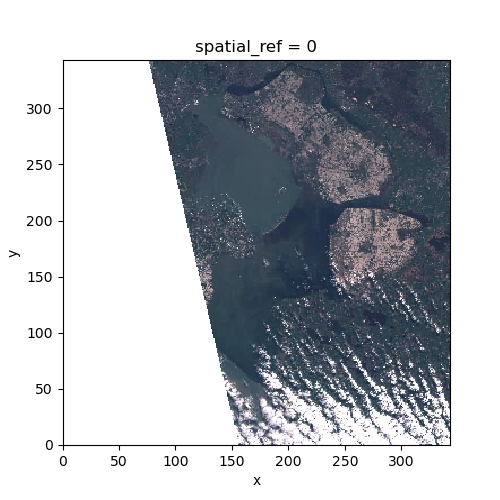
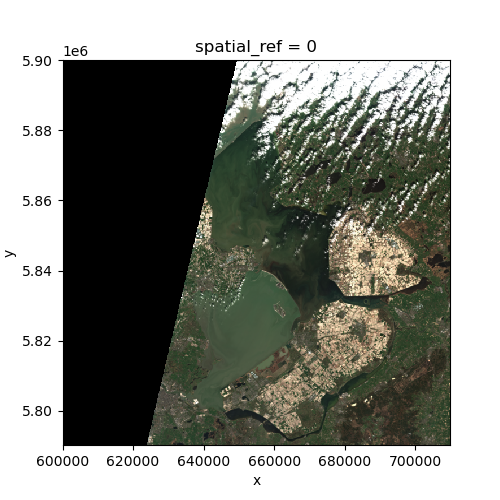
switch to use COG overviews from visual asset

diff --git a/_episodes/06-raster-intro.md b/_episodes/06-raster-intro.md
@@ -395,33 +395,36 @@ And if we plot the image, the `nodata` pixels are not shown because they are not
 One should notice that there is a side effect of using `nan` instead of `0` to represent the missing data: the data type of the `DataArray` was changed from integers to float. This need to be taken into consideration when the data type matters in your application.
 
 ## Raster Bands
-So far we looked into a single band raster, i.e. the `nir09` band of a Sentinel-2 scene. However, to get a smaller, non georeferenced version of the scene, one may also want to visualize the true-color thumbnail of the region. This is provided as a multi-band raster -- a raster dataset that contains more than one band.
+So far we looked into a single band raster, i.e. the `nir09` band of a Sentinel-2 scene. However, to get a smaller, non georeferenced version of the scene, one may also want to visualize the true-color overview of the region. This is provided as a multi-band raster -- a raster dataset that contains more than one band.
 
 ![Multi-band raster image](../fig/E06-07-single_multi_raster.png)
 
-The `thumbnail` asset in the Sentinel-2 scene is a multiband asset. Similar to `nir09`, we can load it by:
+The `overview` asset in the Sentinel-2 scene is a multiband asset. Similar to `nir09`, we can load it by:
 ~~~
-raster_ams_thumbnail = rioxarray.open_rasterio(items[0].assets['thumbnail'].href)
-raster_ams_thumbnail
+raster_ams_overview = rioxarray.open_rasterio(items[0].assets['overview'].href)
+raster_ams_overview
 ~~~
 {: .language-python}
 ~~~
-<xarray.DataArray (band: 3, y: 343, x: 343)>
-[352947 values with dtype=uint8]
+<xarray.DataArray (band: 3, y: 687, x: 687)>
+[1415907 values with dtype=uint8]
 Coordinates:
   * band         (band) int64 1 2 3
-  * x            (x) float64 0.5 1.5 2.5 3.5 4.5 ... 339.5 340.5 341.5 342.5
-  * y            (y) float64 0.5 1.5 2.5 3.5 4.5 ... 339.5 340.5 341.5 342.5
+  * x            (x) float64 6.001e+05 6.002e+05 ... 7.096e+05 7.097e+05
+  * y            (y) float64 5.9e+06 5.9e+06 5.9e+06 ... 5.79e+06 5.79e+06
     spatial_ref  int64 0
 Attributes:
-    scale_factor:  1.0
-    add_offset:    0.0
+    AREA_OR_POINT:       Area
+    OVR_RESAMPLING_ALG:  AVERAGE
+    _FillValue:          0
+    scale_factor:        1.0
+    add_offset:          0.0
 ~~~
 {: .output}
 
 The band number comes first when GeoTiffs are read with the `.open_rasterio()` function. As we can see in the `xarray.DataArray` object, the shape is now `(band: 3, y: 343, x: 343)`, with three bands in the `band` dimension. It's always a good idea to examine the shape of the raster array you are working with and make sure it's what you expect. Many functions, especially the ones that plot images, expect a raster array to have a particular shape. One can also check the shape using the `.shape` attribute:
 ~~~
-raster_ams_thumbnail.shape
+raster_ams_overview.shape
 ~~~
 {: .language-python}
 ~~~
@@ -431,7 +434,7 @@ raster_ams_thumbnail.shape
 
 One can visualize the multi-band data with the `DataArray.plot.imshow()` function:
 ~~~
-raster_ams_thumbnail.plot.imshow()
+raster_ams_overview.plot.imshow()
 ~~~
 {: .language-python}
 
@@ -445,7 +448,7 @@ Note that the `DataArray.plot.imshow()` function makes assumptions about the sha
 > > ## Answers
 > > Since we know the height/width ratio is 1:1 (check the `rio.height` and `rio.width` attributes), we can set the aspect ratio to be 1. For example, we can choose the size to be 5 inches, and set `aspect=1`. Note that according to the [documentation](https://xarray.pydata.org/en/stable/generated/xarray.DataArray.plot.imshow.html) of `DataArray.plot.imshow()`, when specifying the `aspect` argument, `size` also needs to be provided.
 > > ~~~
-> > raster_ams_thumbnail.plot.imshow(size=5, aspect=1)
+> > raster_ams_overview.plot.imshow(size=5, aspect=1)
 > > ~~~
 > > {: .language-python}
 > >
